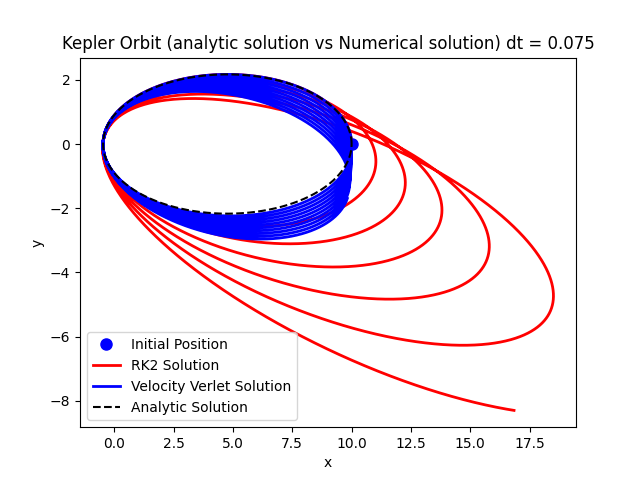
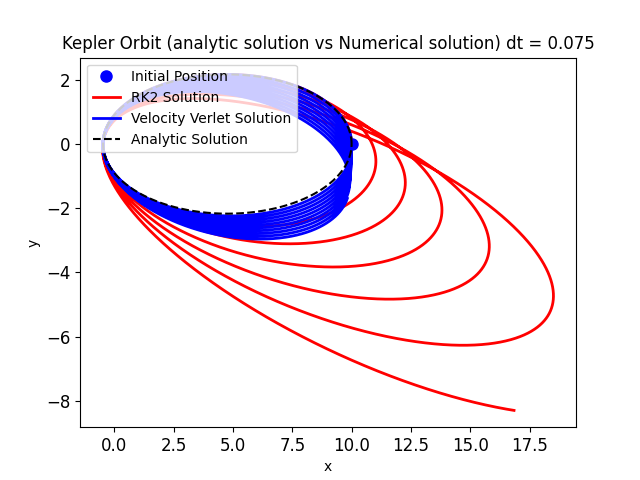
Completed the energy calculations and plotted the results

diff --git a/kepler_orbit.py b/kepler_orbit.py
@@ -20,7 +20,7 @@ ry0 = 0
 vx0 = 0
 vy0 = 0.3/(np.sqrt(rx0))
 
-dt =  [0.125, 0.100, 0.075]
+dt =  [0.125, 0.100, 0.075, 0.01]
 Nt = 10000
 
 def accecleration(rx, ry):
@@ -57,7 +57,14 @@ def velocity_verlet(rx, ry, vx, vy, dt):
         vx[i+1] = vx[i] + 0.5 * (ax + ax_next) * dt
         vy[i+1] = vy[i] + 0.5 * (ay + ay_next) * dt
 
-        
+def total_energy(rx, ry, vx, vy, Nt):
+    E_total = np.zeros(Nt)
+    for i in range(Nt):
+        r = np.sqrt(rx[i]**2 + ry[i]**2)
+        kinetic_energy = 0.5 * (vx[i]**2 + vy[i]**2)
+        potential_energy = -1 / r
+        E_total[i] = kinetic_energy + potential_energy
+    return E_total    
 
 #Implemeting the numerical solution using the 2nd order Runge-Kutta method
 rx_RK = np.zeros(Nt)
@@ -68,6 +75,10 @@ vx_RK = np.zeros(Nt)
 vy_RK = np.zeros(Nt)
 vx_RK[0] = vx0
 vy_RK[0] = vy0
+
+
+
+
 # Implemeting the numerical solution using the velocity verlet method
 rx_vv = np.zeros(Nt)
 ry_vv = np.zeros(Nt)
@@ -81,6 +92,7 @@ vy_vv[0] = vy0
 for i in range(len(dt)):
     velocity_verlet(rx_vv, ry_vv, vx_vv, vy_vv, dt[i])
     RK2(rx_RK, ry_RK, vx_RK, vy_RK, dt[i])
+
     plt.plot(rx0, ry0, 'bo', label='Initial Position', markersize=8)  # plot the initial position
 
     #plotting the RK2 numerical solution
@@ -89,9 +101,29 @@ for i in range(len(dt)):
     plt.plot(rx_vv, ry_vv, color='blue', label='Velocity Verlet Solution', linewidth=2)  # plot the numerical solution
     #Plotting the annalytic solution
     plt.plot(x, y, 'k--', label='Analytic Solution')  # plot the analytic solution
-    plt.legend()
+    plt.legend(loc='upper left')
     plt.xlabel('x')
     plt.ylabel('y') 
+
+    plt.setp(plt.gca().get_xticklabels(), fontsize=12)
+    plt.setp(plt.gca().get_yticklabels(), fontsize=12)
     plt.title('Kepler Orbit (analytic solution vs Numerical solution) dt = ' + str(dt[i]))
     plt.savefig('kepler_orbit_dt' + str(dt[i]) + '.png')
+    plt.show()
+
+    #Energy RK2
+    E_RK = total_energy(rx_RK, ry_RK, vx_RK, vy_RK, Nt)
+    #Energy velocity verlet
+    E_vv = total_energy(rx_vv, ry_vv, vx_vv, vy_vv, Nt)
+
+    #plottting the total energy vs time for both methods
+    plt.plot(np.arange(Nt) * dt[i], E_RK, color='red', label='RK2 Total Energy', linewidth=2)
+    plt.plot(np.arange(Nt) * dt[i], E_vv, color='blue', label='Velocity Verlet Total Energy', linewidth=2)
+    plt.xlabel('Time') 
+    plt.ylabel('Total Energy')
+    plt.setp(plt.gca().get_xticklabels(), fontsize=12)
+    plt.setp(plt.gca().get_yticklabels(), fontsize=12)
+    plt.title('Total Energy vs Time for Kepler Orbit dt = ' + str(dt[i]))
+    plt.legend(loc='upper left')
+    plt.savefig('kepler_energy_dt' + str(dt[i]) + '.png')
     plt.show()
